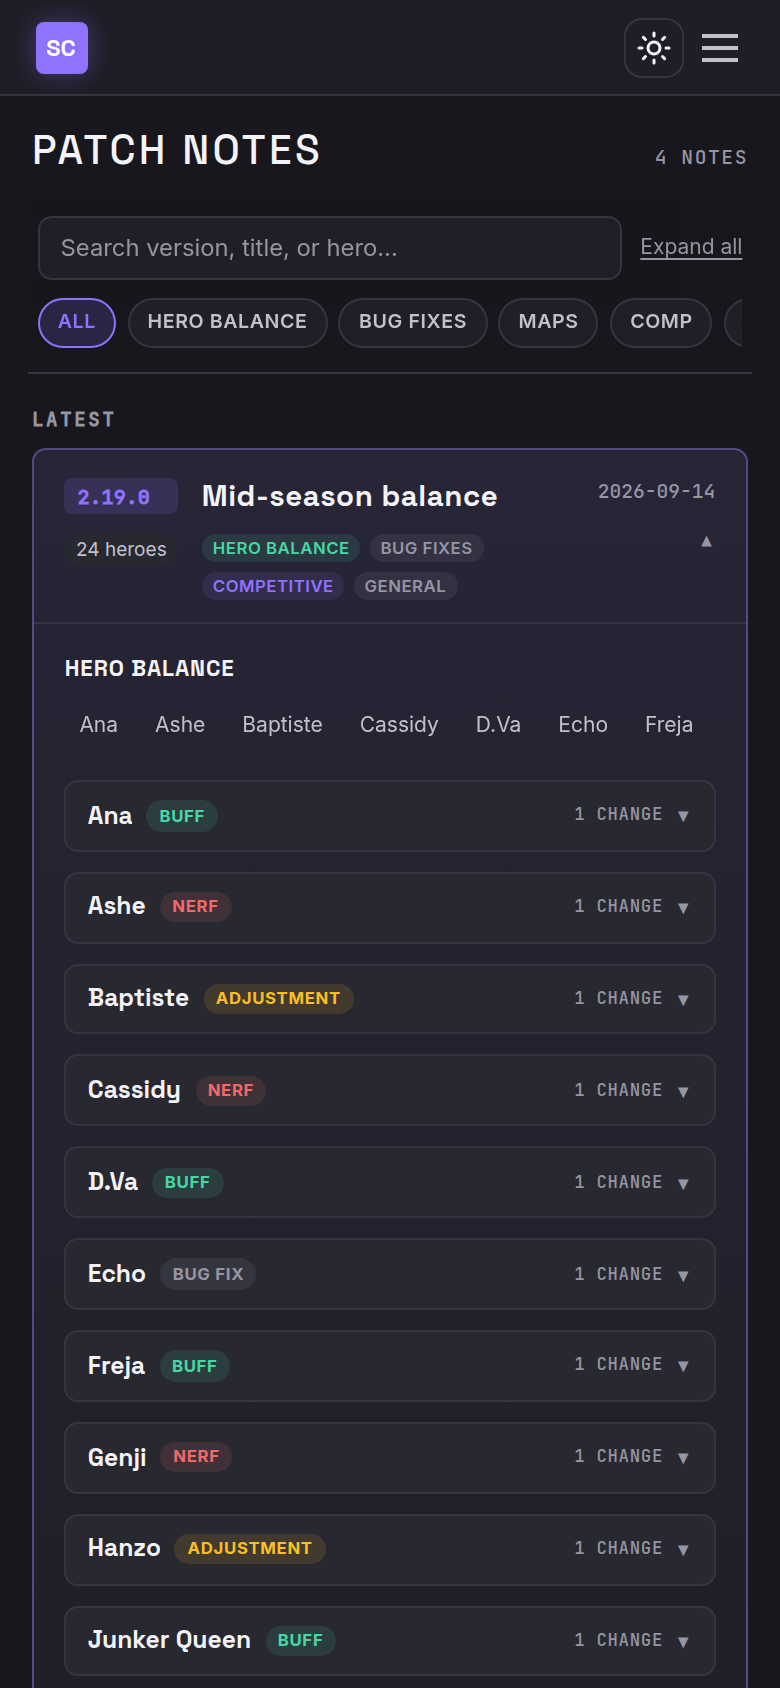
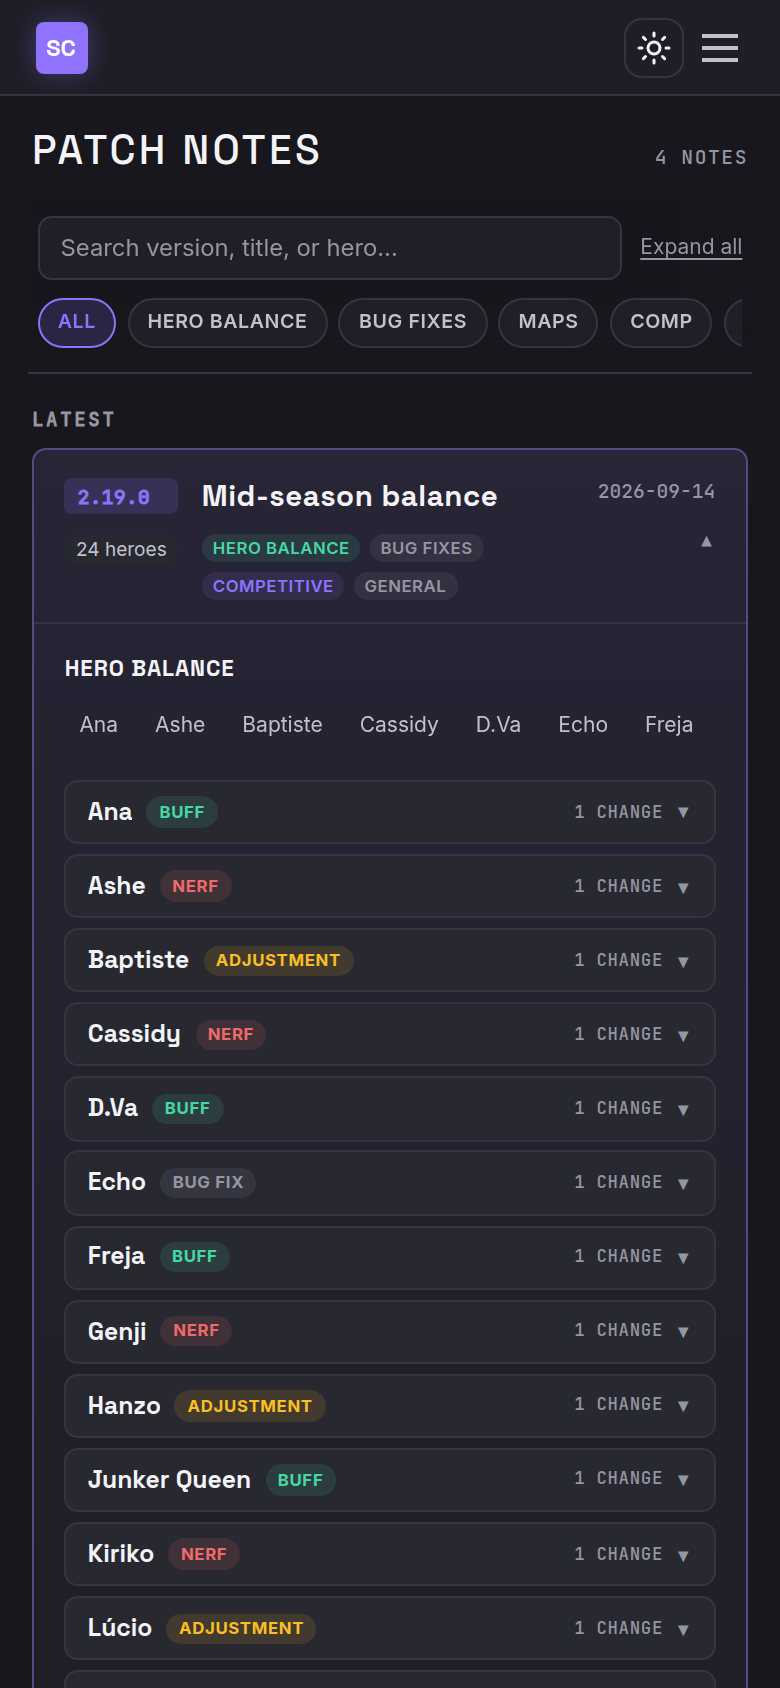
fix(app): desktop Patch Notes accordion is a single-column list
Locked bar: collapsed heroes stay one-at-a-time accordion on desktop,
not a compact 2-col card grid. Strategy-app multi-col grid applies only
to an open hero's change lines and to section items. After screenshots
updated under docs/design-review/patch-notes-density/.

diff --git a/crates/app/src/pages/strategy/patch_notes.rs b/crates/app/src/pages/strategy/patch_notes.rs
@@ -762,10 +762,12 @@ const PAGE_CSS: &str = r#"
         background: var(--accent-soft);
         color: var(--accent);
     }
-    .patch-hero-grid {
-        display: grid;
-        grid-template-columns: repeat(auto-fill, minmax(min(340px, 100%), 1fr));
-        gap: 10px;
+    /* Desktop default: single-column accordion. Multi-col grid is only
+       for an *open* hero's change lines and for non-hero sections. */
+    .patch-hero-list {
+        display: flex;
+        flex-direction: column;
+        gap: 0.35rem;
     }
     .patch-hero-card {
         background: var(--surface-2);
@@ -775,7 +777,6 @@ const PAGE_CSS: &str = r#"
         scroll-margin-top: calc(48px + 5.75rem);
     }
     .patch-hero-card.open {
-        grid-column: 1 / -1;
         border-color: color-mix(in srgb, var(--accent) 28%, var(--border));
     }
     .patch-hero-card-header {
@@ -784,7 +785,7 @@ const PAGE_CSS: &str = r#"
         gap: 0.5rem;
         width: 100%;
         margin: 0;
-        padding: 0.55rem 0.75rem;
+        padding: 0.42rem 0.75rem;
         border: none;
         background: transparent;
         color: inherit;
@@ -1383,7 +1384,7 @@ fn render_patch_card(
                                             }
                                         }
                                     }
-                                    div { class: "patch-hero-grid",
+                                    div { class: "patch-hero-list",
                                         for (hi, hu) in hero_updates.iter().enumerate() {
                                             {render_hero_update(
                                                 idx,
